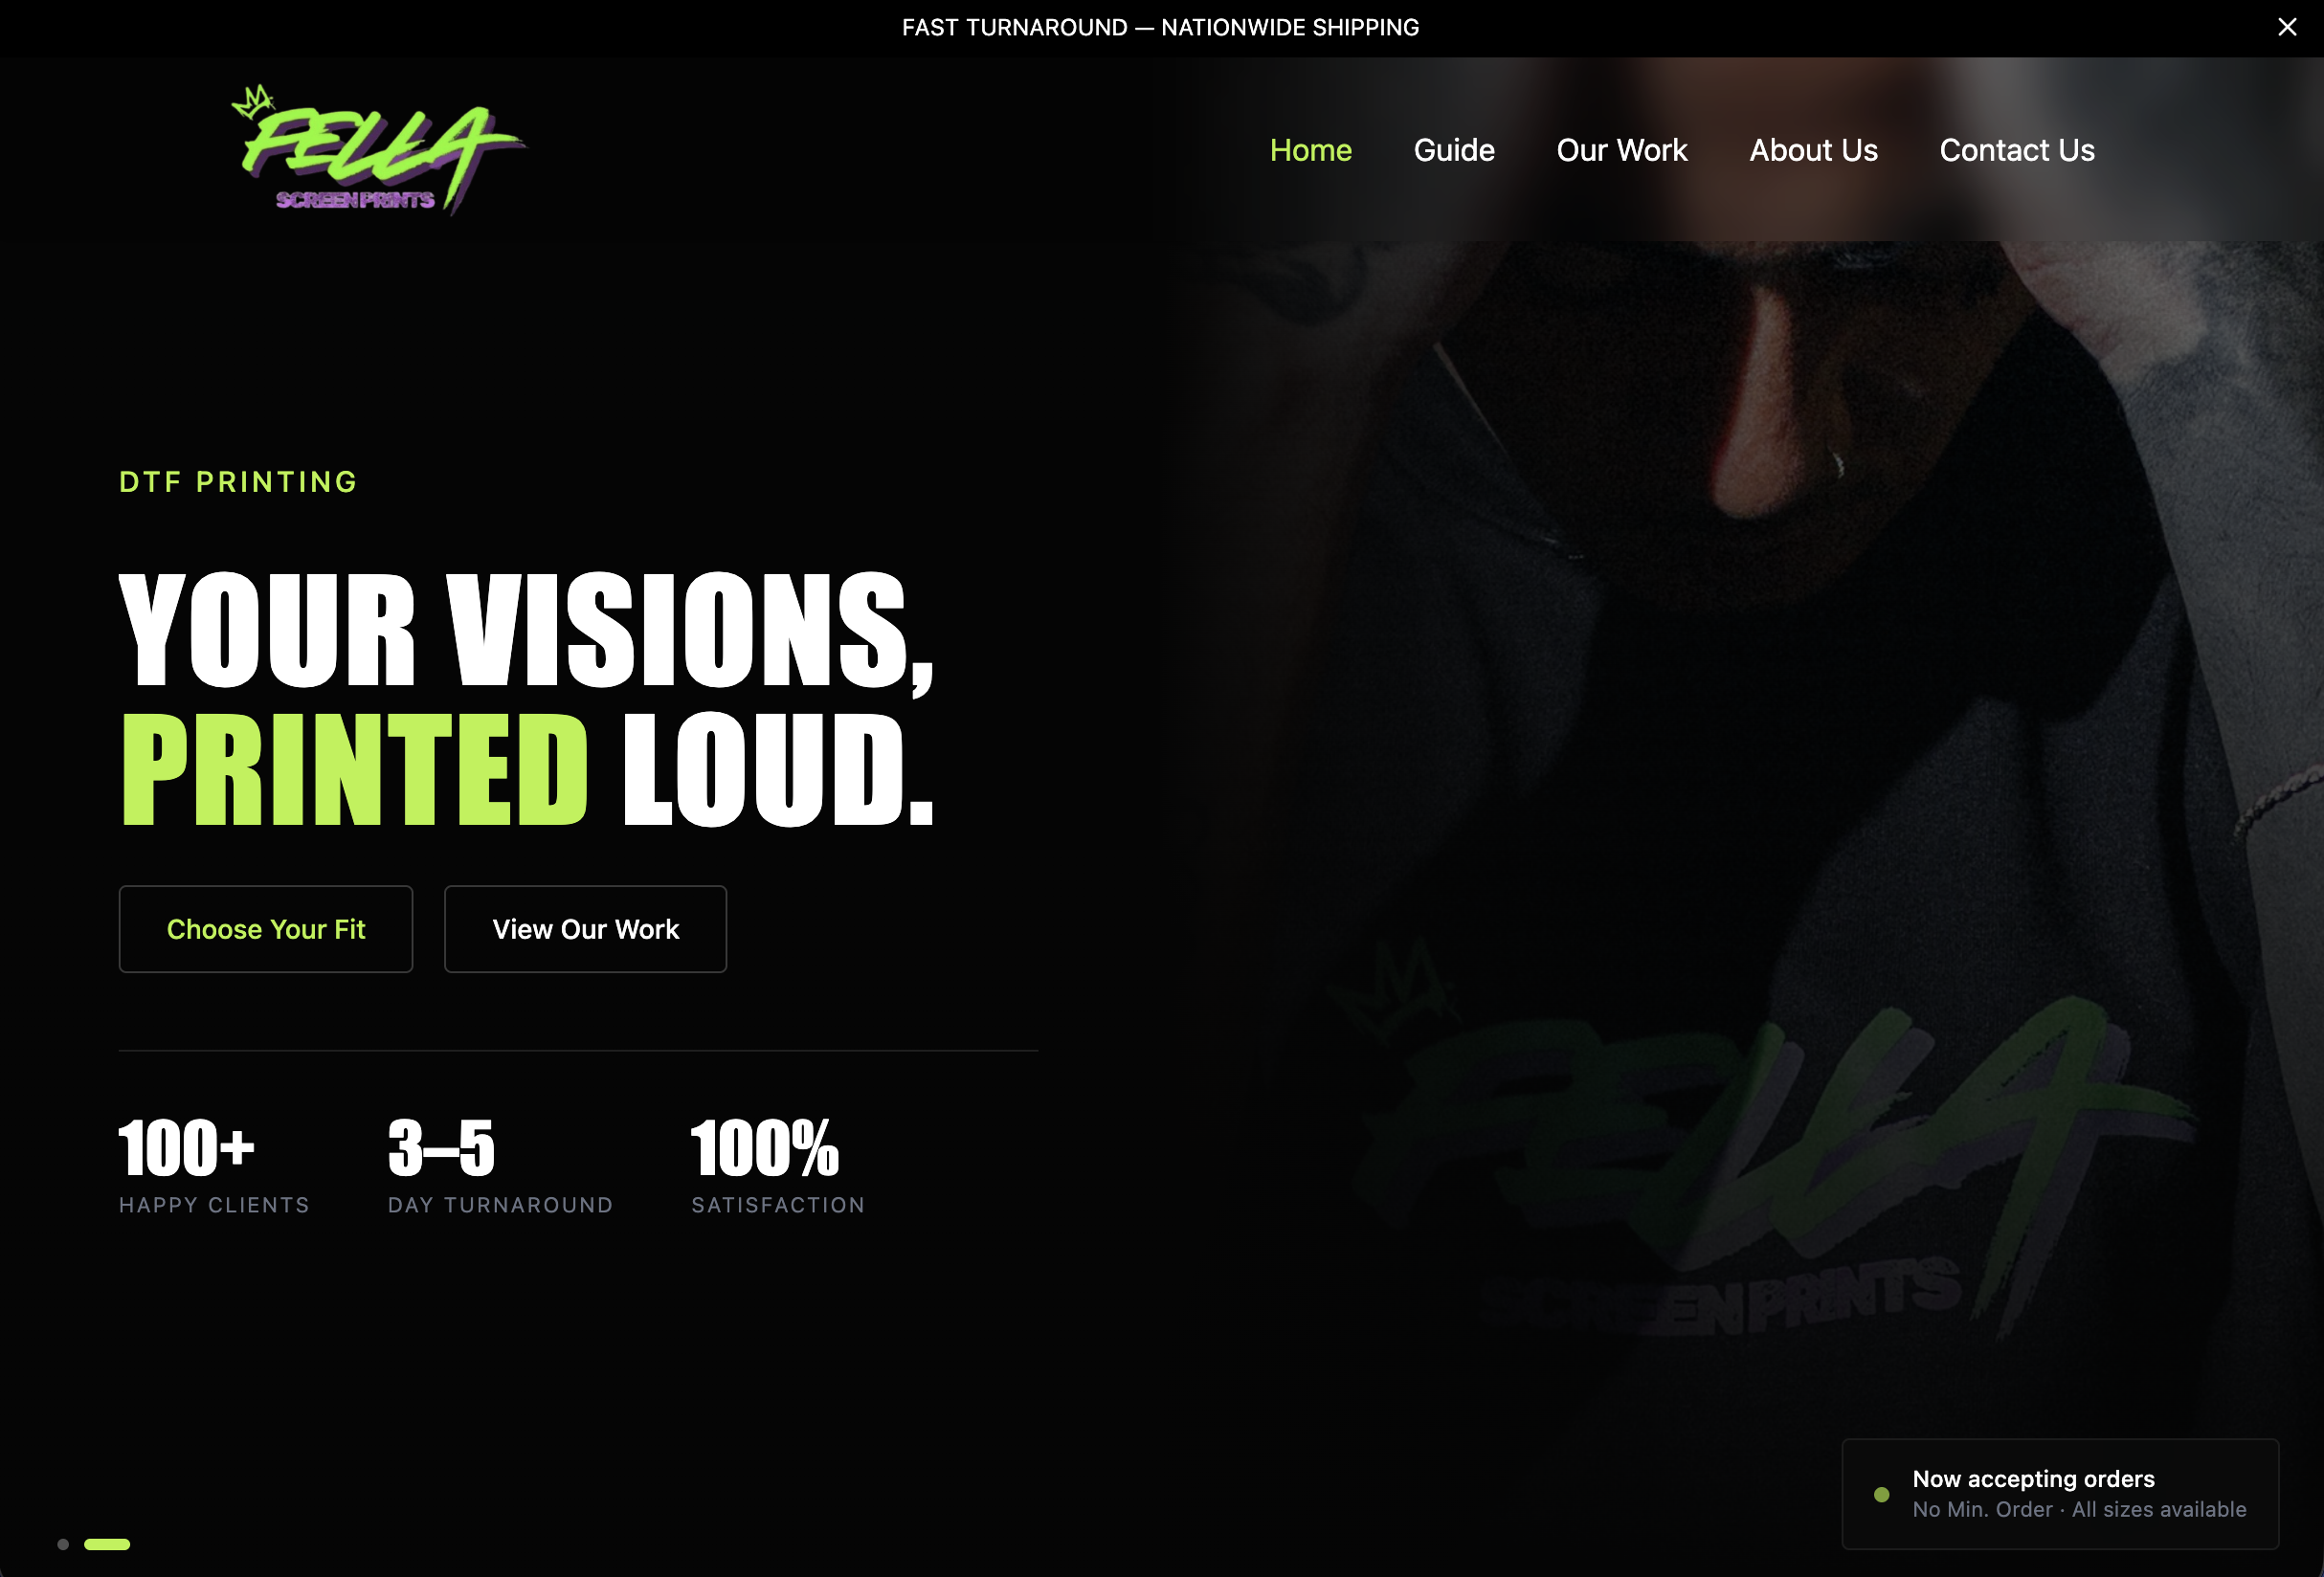
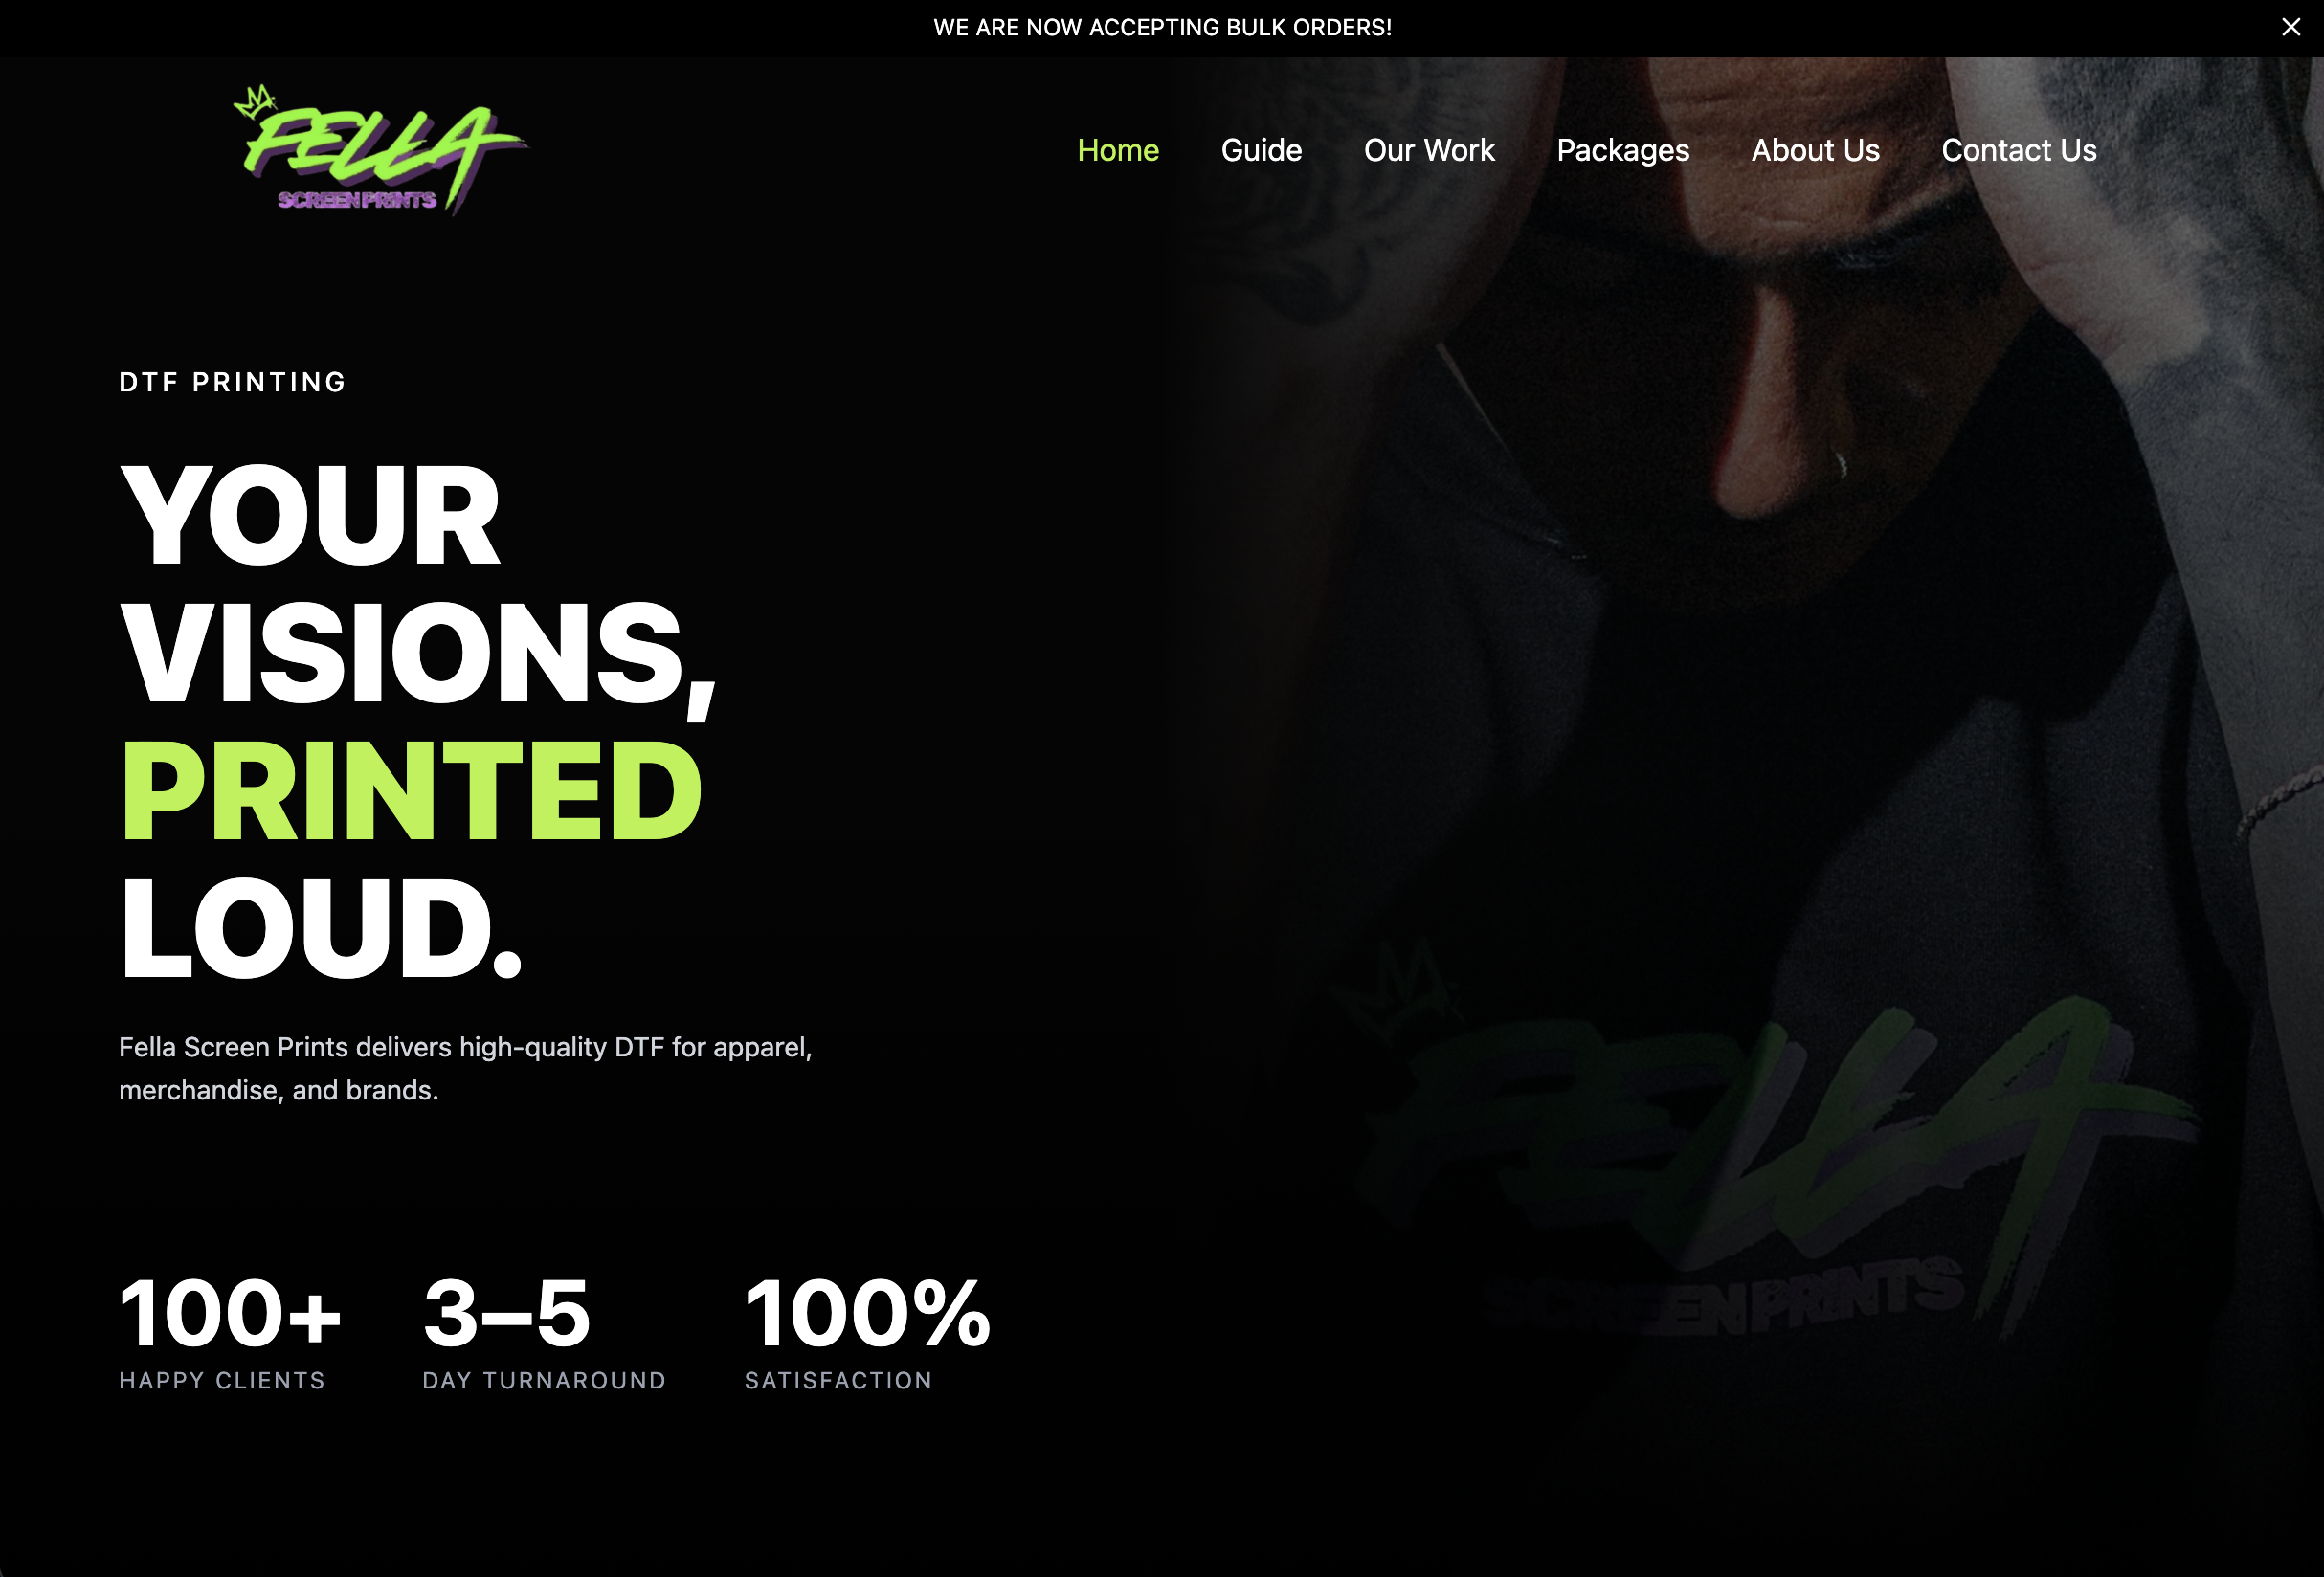
..

diff --git a/src/components/Projects.jsx b/src/components/Projects.jsx
@@ -25,7 +25,7 @@ const cardData = [
     title: "Fella Screen Prints",
     heading: "React JS, JavaScript, Tailwind CSS",
     body: "A custom apparel printing business features a dynamic website with service showcase.",
-    image: "../assets/Fella-Web.png",
+    image: "../assets/fella-web.png",
     link: "",
     category: "dynamic",
   },